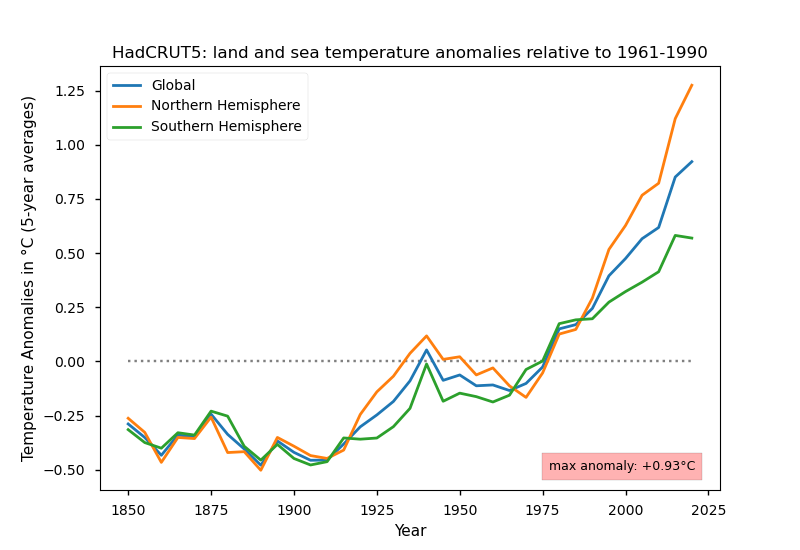
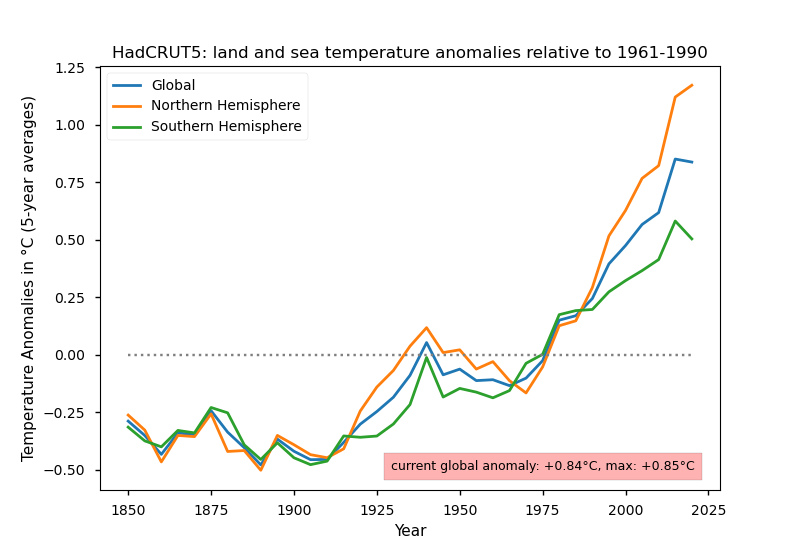
Show the current and higher temp anomalies

diff --git a/hadcrut5-plot.py b/hadcrut5-plot.py
@@ -62,7 +62,8 @@ def parse_args():
 
 def plotline(datasets, outfile, period, chunksize, verbose):
     mpl.style.use("seaborn-notebook")
-    anomaly_current = anomaly_max = None
+    anomaly_current = {}
+    anomaly_max = {}
 
     for item in datasets:
         tas_mean  = datasets[item]["variables"]["tas_mean"][:]
@@ -72,13 +73,14 @@ def plotline(datasets, outfile, period, chunksize, verbose):
         years = [y + 1850 for y in range(len(tas_mean))]
         if verbose:
             print("years: \\\n{}".format(np.array(years)))
-            print("temperatures: \\\n{}".format(tas_mean))
+            print("temperatures ({}): \\\n{}".format(item, tas_mean))
 
         mean, norm_temp = hadcrut5.dataset_normalize(tas_mean, period)
         if verbose:
-            print(("The mean anomaly in {0} is about: {1:.8f}°C"
-                   .format(period, norm_temp)))
-            print("tas_mean relative to {}: \\\n{}".format(period, np.array(mean)))
+            print(("The mean anomaly ({0}) in {1} is about: {2:.8f}°C"
+                   .format(item, period, norm_temp)))
+            print(("tas_mean ({}) relative to {}: \\\n{}"
+                   .format(item, period, np.array(mean))))
 
         lower, _ = hadcrut5.dataset_normalize(tas_lower, period, norm_temp)
         upper, _ = hadcrut5.dataset_normalize(tas_upper, period, norm_temp)
@@ -87,19 +89,18 @@ def plotline(datasets, outfile, period, chunksize, verbose):
             years, mean = hadcrut5.dataset_smoother(years, mean, chunksize)
             if verbose:
                 print("years: \\\n{}".format(np.array(years)))
-                print("temperatures: \\\n{}".format(mean))
+                print("temperatures ({}): \\\n{}".format(item, mean))
                 print("delta ({}): \\\n{}".format(years[-1], mean[-1]))
         else:
             plt.fill_between(years, lower, upper, color="lightgray")
 
-        plt.plot(years, mean, linewidth=2, markersize=12, label=item)
+        anomaly_current[item] = hadcrut5.dataset_current_anomaly(mean)
+        anomaly_max[item] = hadcrut5.dataset_max_anomaly(mean)
+        if verbose:
+            print("Current anomalies: {}".format(anomaly_current[item]))
+            print("Max anomalies: {}".format(anomaly_max[item]))
 
-        if item == "Global":
-            anomaly_current = hadcrut5.dataset_current_anomaly(mean)
-            anomaly_max = hadcrut5.dataset_max_anomaly(mean)
-            if verbose:
-                print("Current anomaly for Global dataset: {}".format(anomaly_current))
-                print("Max anomaly for Global dataset: {}".format(anomaly_max))
+        plt.plot(years, mean, linewidth=2, markersize=12, label=item)
 
     plt.hlines(0, np.min(years), np.max(years),
                colors='gray', linestyles='dotted')
@@ -113,9 +114,12 @@ def plotline(datasets, outfile, period, chunksize, verbose):
         ylabel += " ({}-year averages)".format(chunksize)
     plt.ylabel(ylabel)
 
-    if anomaly_current:
+    current = anomaly_current.get('Global')
+    maximum = anomaly_max.get('Global')
+    if current and maximum:
         ax = plt.gca()
-        plt.annotate("current anomaly: {0:+.2f}°C".format(anomaly_current),
+        plt.annotate(("current global anomaly: {0:+.2f}°C, max: {1:+.2f}°C"
+                      .format(current, maximum)),
                      xy=(0.96, 0.04),
                      xycoords="axes fraction",
                      fontsize=9,
@@ -123,7 +127,7 @@ def plotline(datasets, outfile, period, chunksize, verbose):
                      verticalalignment="bottom",
                      bbox={
                          "facecolor": "{}".format(
-                             "blue" if anomaly_current <= 0 else "red"
+                             "blue" if current <= 0 else "red"
                          ),
                          "alpha": 0.3,
                          "pad": 5

diff --git a/hadcrut5lib.py b/hadcrut5lib.py
@@ -120,7 +120,7 @@ def dataset_current_anomaly(temperatures):
 
 def dataset_max_anomaly(temperatures):
     """Return the maximum anomaly with respect to 'temperatures'"""
-    return np.max([t for t in temperatures])
+    return np.max(temperatures)
 
 def dataset_smoother(years, temperatures, chunksize):
     """Make the lines smoother by using {chunksize}-year means"""
